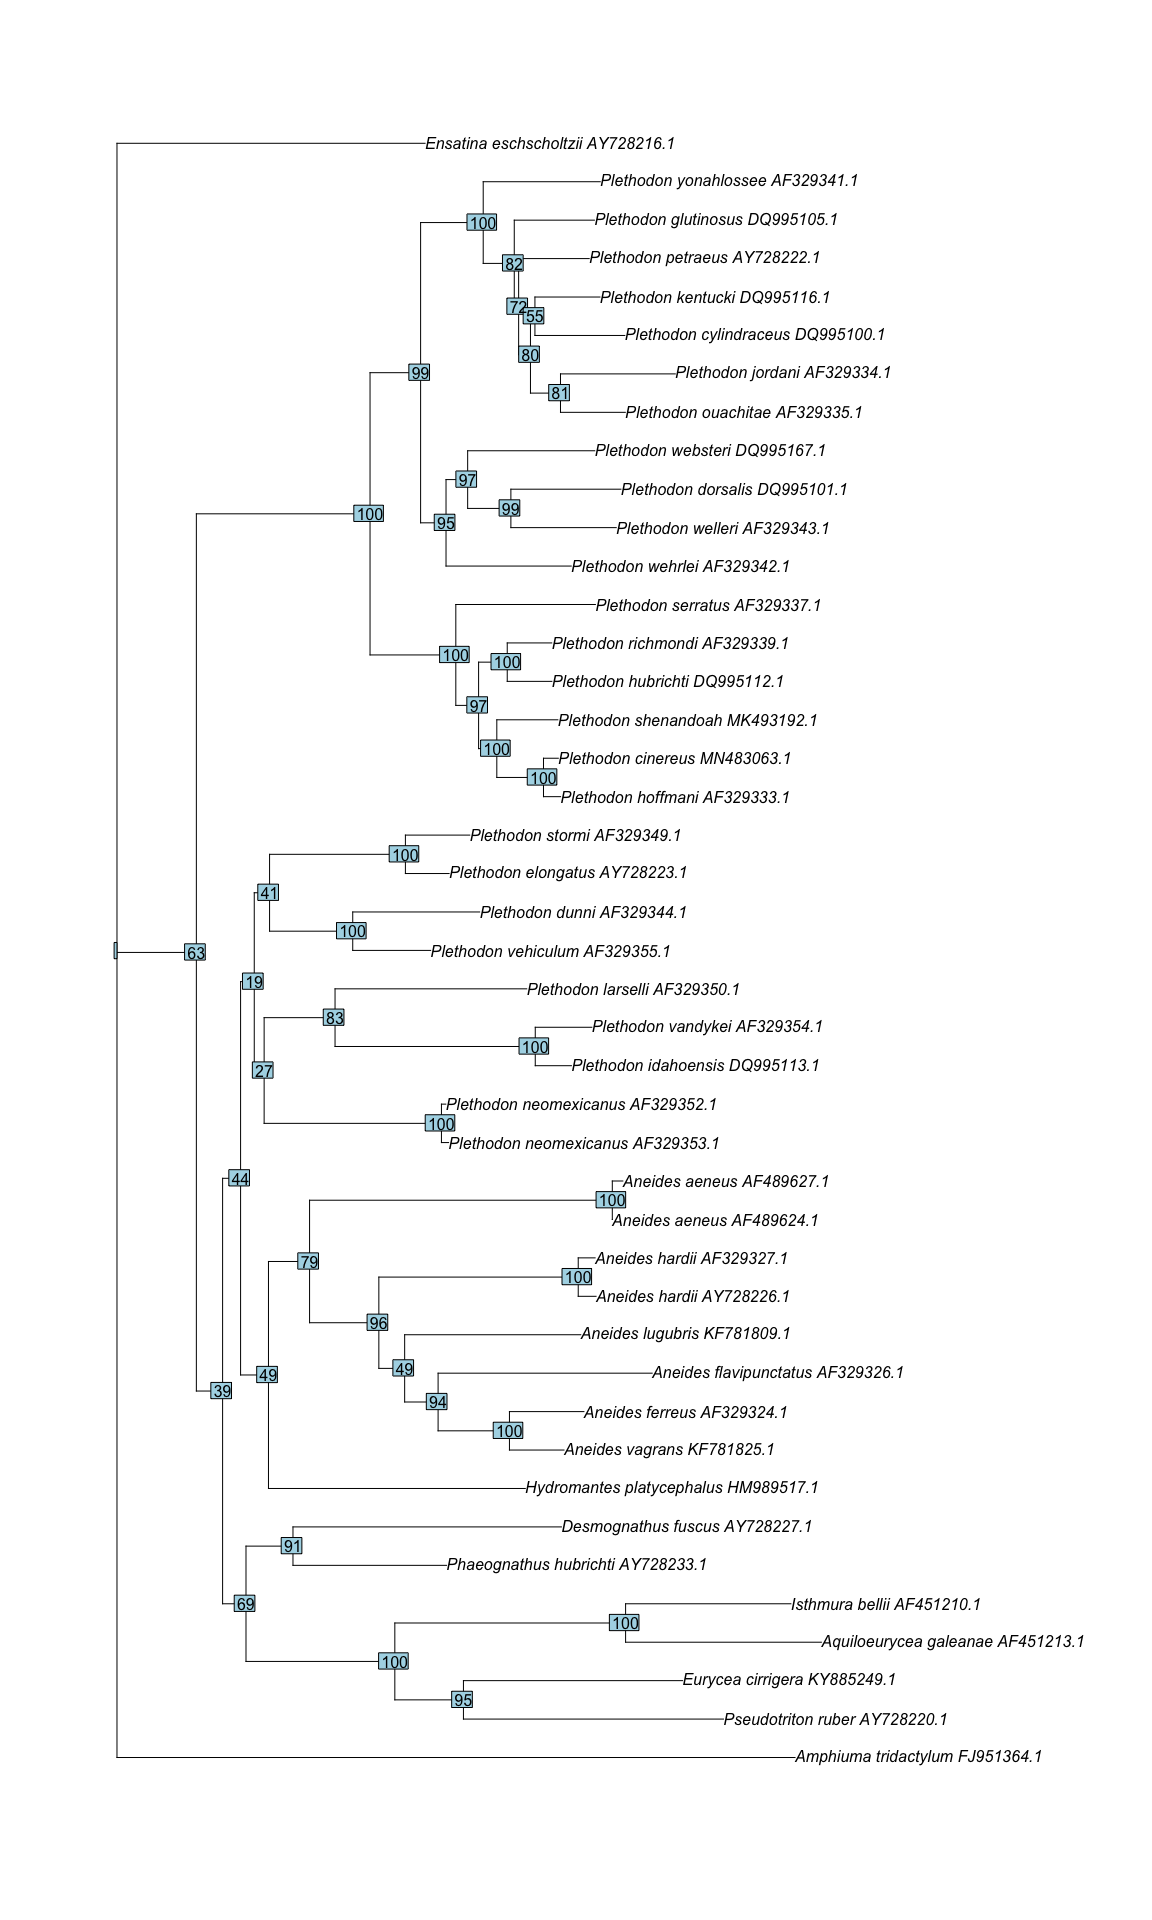
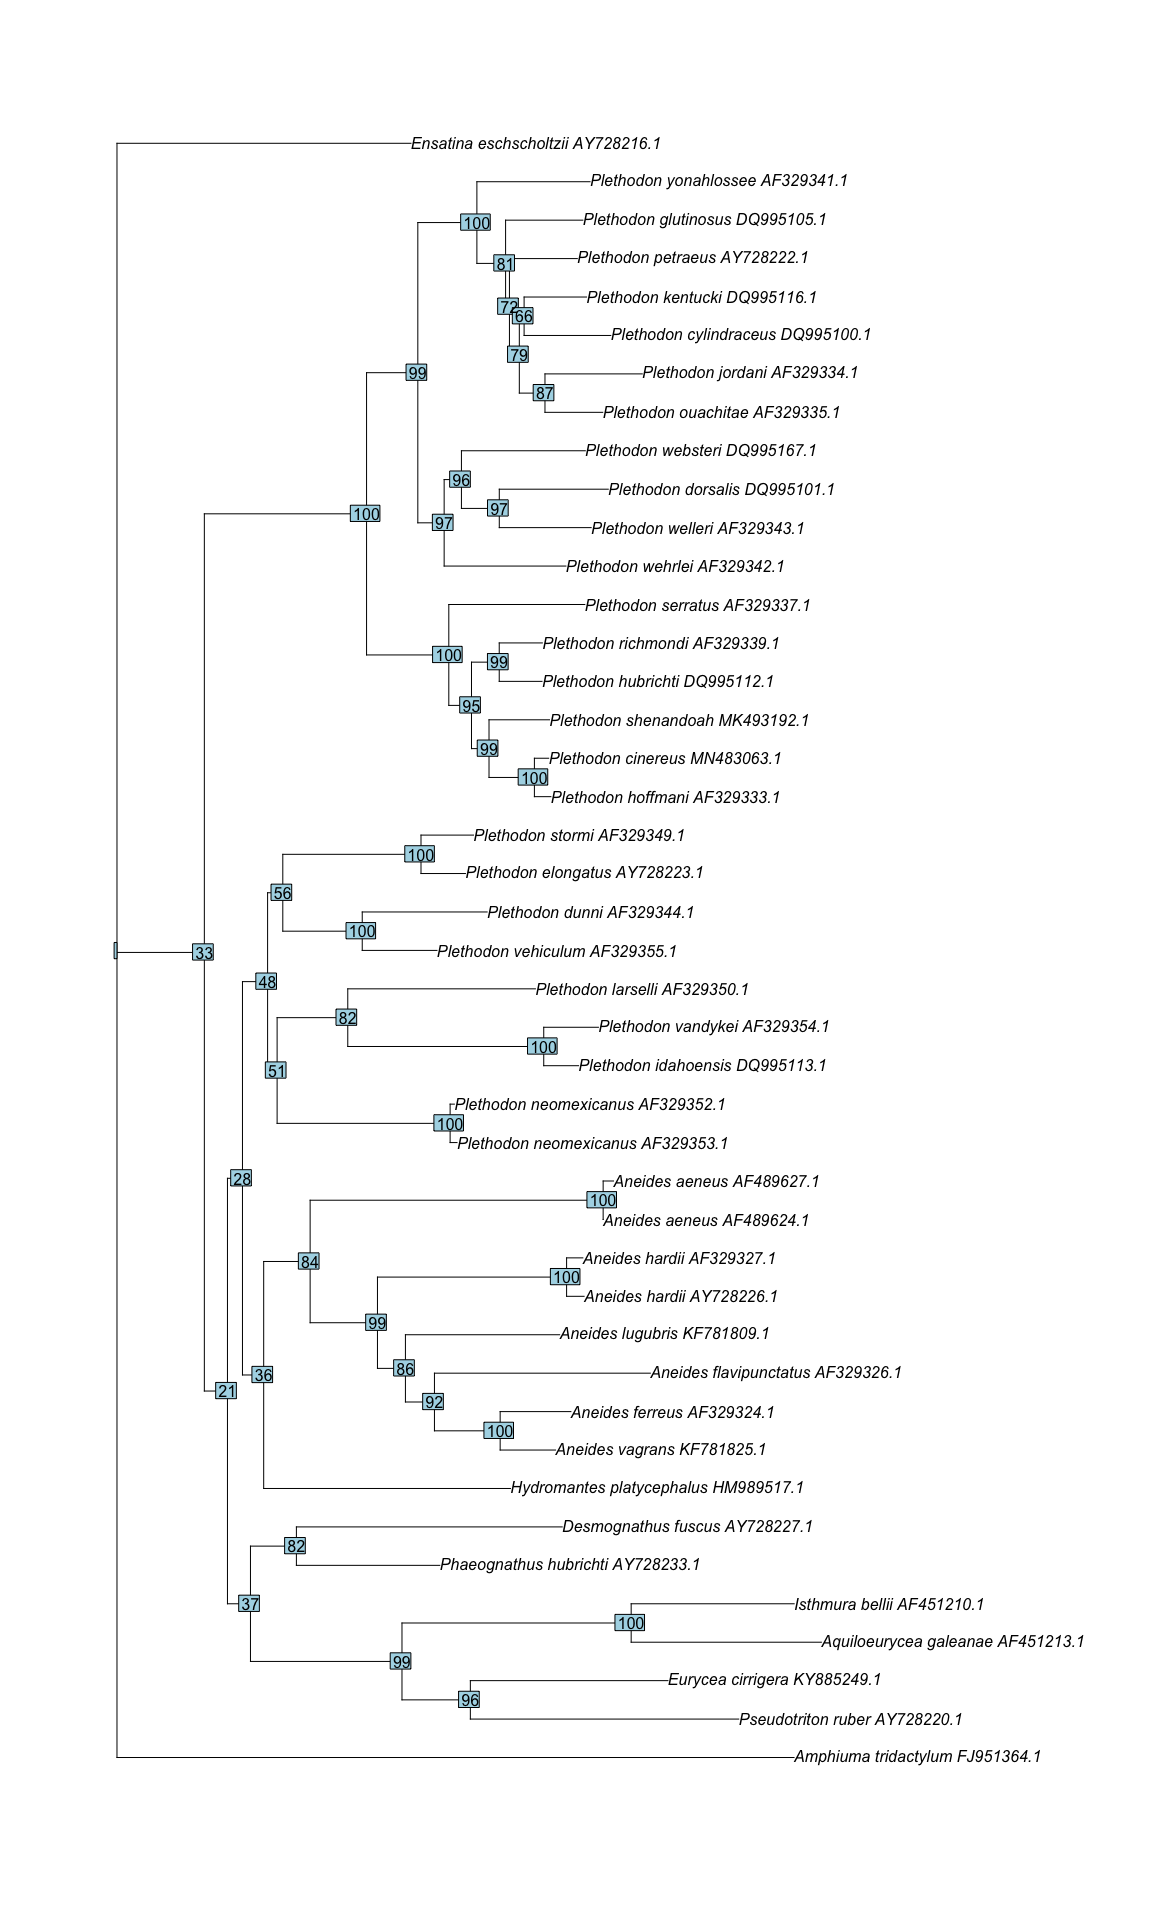
Updated trees in the readme file for the alignment fix

diff --git a/README.md b/README.md
@@ -108,10 +108,10 @@ neomexicanus* nested within this group, while all eastern members of
 Plethodontidae.
 
 Support values for edges close to the tips were generally high, with
-relationships within smaller clades often reflecting those presented by
-previously published phylogenies (e.g. eastern and western *Plethodon* in
+relationships within smaller clades reflecting those presented by
+previously published phylogenies (e.g. eastern *Plethodon* in
 Fisher-Reid 2011). However, support values for edges between larger
-clades (e.g. Plethodontidae excluding eastern *Plethodon* and
+clades (e.g. Plethodontidae excluding western *Plethodon* and
 *Ensatina*) were very poor. In particular, the polyphyly of *Plethodon*,
 the monophyly of western *Plethodon*, and the placement of *Plethodon
 neomexicanus* within the clade of western *Plethodon* are poorly
@@ -124,9 +124,9 @@ al. 2011).
 Below is the gene tree generated for the Rag-1 gene.
 ![](README_files/figure-markdown_github/unnamed-chunk-2-1.png) This tree
 suggests that western members of *Aneides* form a monophyletic group,
-with *Aneides hardii* sister to this group, and the eastern species
-*Aneides aeneus* sister to the rest of the genus. It suggests that all
-western members of *Plethodon* form a monophyletic group, with *Plethodon
+with *Aneides hardii* sister to this group, and the eastern *Aneides
+aeneus* sister to the rest of the genus. It suggests that all western
+members of *Plethodon* form a monophyletic group, with *Plethodon
 neomexicanus* nested within this group, and eastern members of
 *Plethodon* form a monophyletic group sister to the aformentioned clade
 of western and New Mexican *Plethodon*. This tree also suggests that
@@ -159,12 +159,12 @@ Discussion
 
 The Rag-1 tree and combined tree demonstrate with high support the
 monophyly of each of *Plethodon* and *Aneides*. This suggest that the
-two present-day Plethodontid species in New Mexico are indeed relicts of
+two present-day Plethodontids in New Mexico are indeed the result of
 multiple seperate Plethodontid radiations into the region. The monophyly
 of these two genera also indicates a shared ancestry between the New
-Mexican Plethodontids and either eastern or western clades of their
-respective genera, not Mexican clades of Plethodontids such as
-*Isthamura*, *Aquiloeurycea*, and *Pseudoeurycea*.
+Mexican Plethodontids and either eastern or western clades, not Mexican
+clades of Plethodontids such as *Isthamura*, *Aquiloeurycea*, and
+*Pseudoeurycea*.
 
 Strongly-supported relationships in the Rag-1 and concatenated trees
 (and moderate-to-weakly supported relationships in the ND-4 tree)
@@ -182,9 +182,9 @@ Strongly-supported relationships in all three trees indicate that the
 group of eastern *Plethodon* is monophyletic, and does not include
 *Plethodon neomexicanus*, ruling out the possibiliy of *Plethodon
 neomexicanus* being the result of a recent radiation from the east.
-Weakly-supported relationships that are consistent in all three trees
+Weakly-supported relations ships that are consistent in all three trees
 suggest that *Plethodon neomexicanus* is nested within the clade of
-western *Plethodon*; if we accept these relationships, then *Plethodon
+western *Plethodon*; if we accept this relationship, then *Plethodon
 neomexicanus* is likely the result of a radiation of *Plethodon* from
 the west that occurred after some of the diversification of extant
 *Plethodon* in the Pacific Northwest. However, stronger support would be
